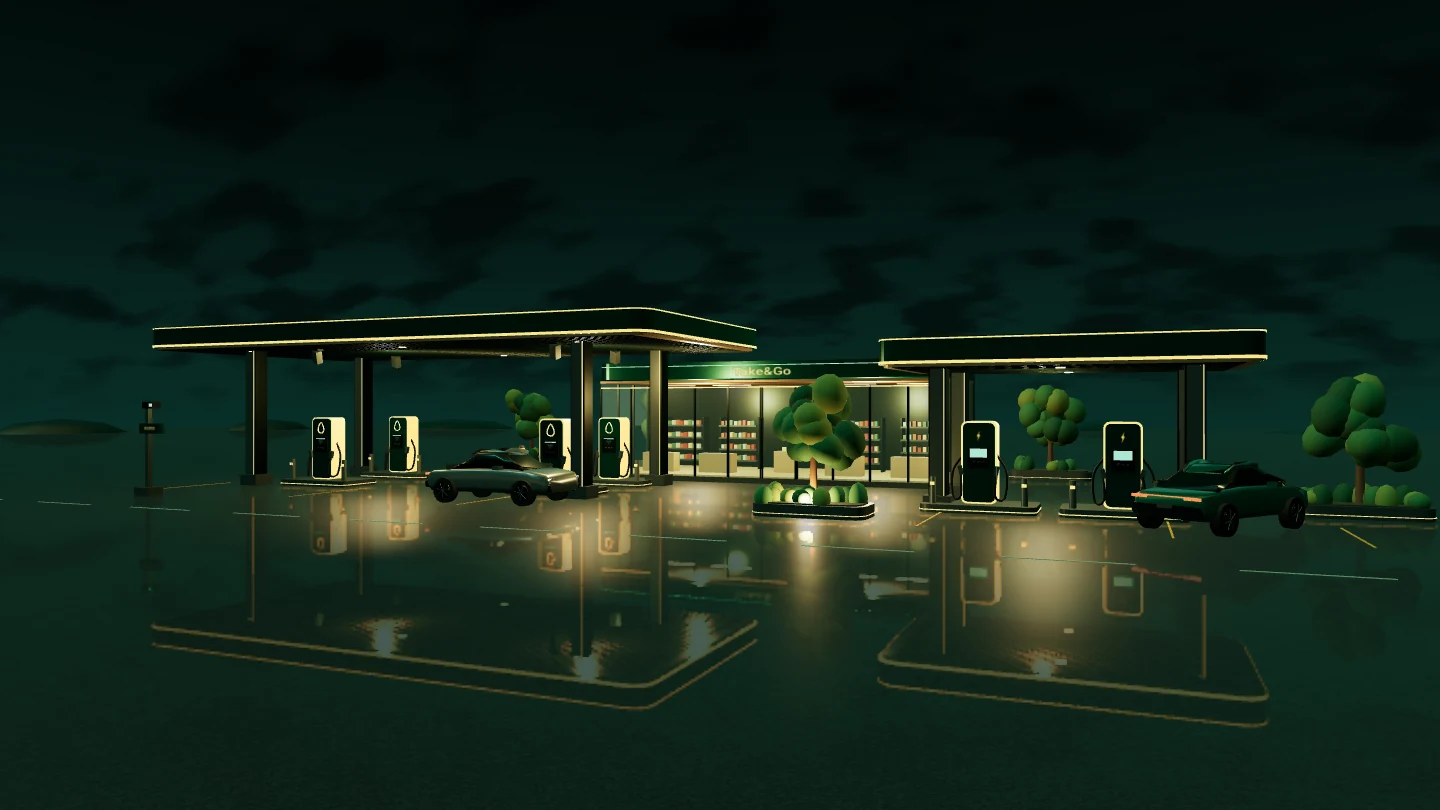
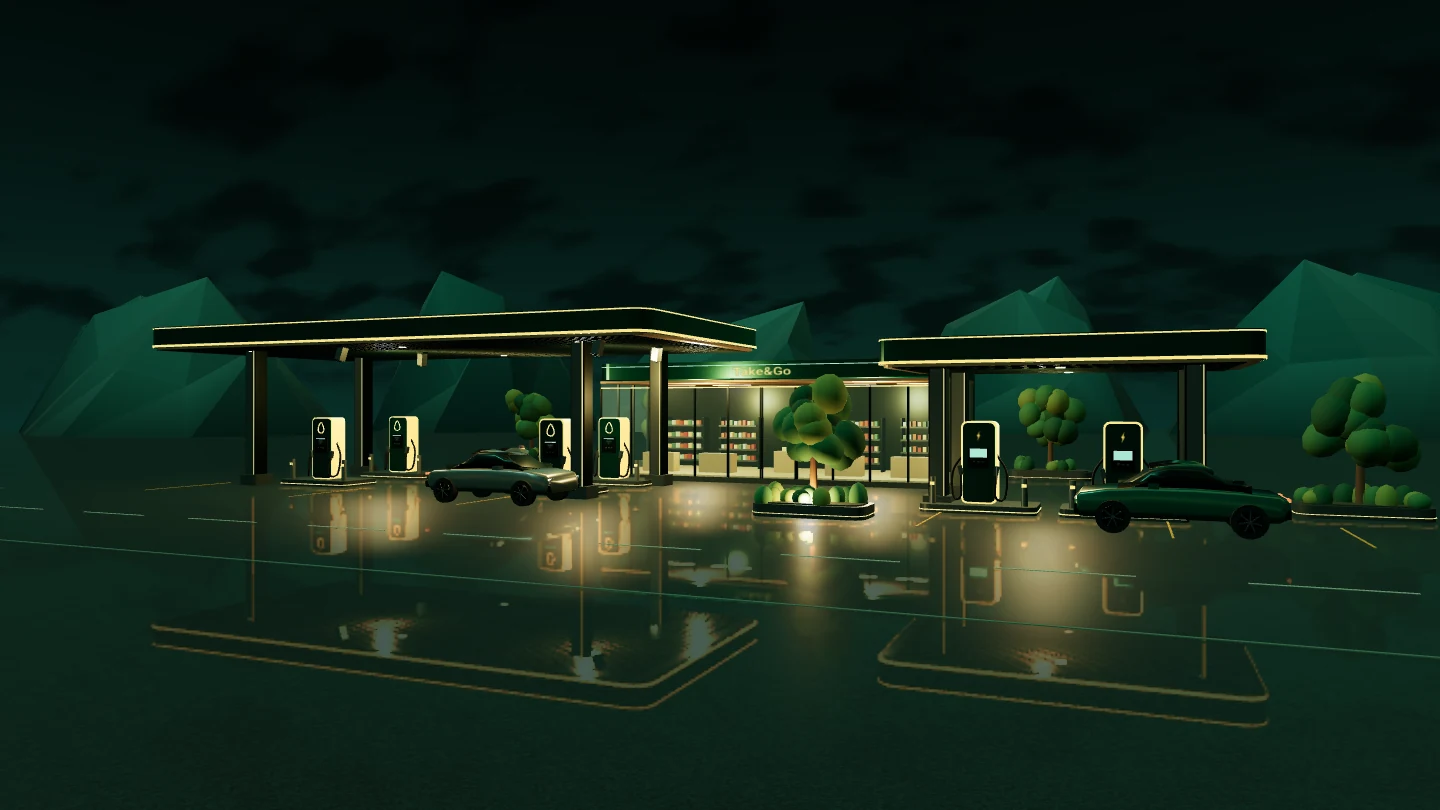
Animate EV charging and place identification on canopy camera

diff --git a/assets/scene/environment.js b/assets/scene/environment.js
@@ -40,7 +40,10 @@ export function environment(scene, high) {
 
   const lane = standard(0x889f85, .13, .74);
   const amber = standard(0xb8882e, .22, .54);
-  for (let i = -5; i <= 5; i++) box(scene, lane, i * 4.3, .02, 10.3, 2.5, .012, .065);
+  const shoulder = standard(0x536d5d, .16, .74);
+  for (let i = -23; i <= 23; i++) box(scene, lane, i * 4.3, .02, 11.75, 2.5, .012, .065);
+  box(scene, shoulder, 0, .021, 16.55, 212, .013, .07);
+  for (const x of [-68, 68]) box(scene, shoulder, x, .021, 7.35, 86, .013, .07);
   for (const x of [fuelX(-16), fuelX(-9), fuelX(-2), 9, 15, 19]) {
     box(scene, amber, x, .023, 4, .055, .014, 3.75);
   }
@@ -48,11 +51,58 @@ export function environment(scene, high) {
     const z = x === 5.8 ? 4.4 : x === 20 ? -1 : -12.8;
     planter(scene, x, z, high);
   }
-  for (let i = 0; i < 30; i++) {
-    const angle = i / 30 * Math.PI * 2;
-    const radius = 105 + random() * 10;
-    const rock = mesh(scene, new T.IcosahedronGeometry(1, 1), standard(0x0e302a), Math.cos(angle) * radius, -.9, Math.sin(angle) * radius);
-    rock.scale.set(4 + random() * 6, 1.1 + random() * 2.25, 6 + random() * 6);
+  mountainRanges(scene);
+}
+
+function mountainRanges(scene) {
+  const foot = new T.Color(0x0b2825);
+  const crest = new T.Color(0x386258);
+  const faces = new T.MeshStandardMaterial({
+    vertexColors: true,
+    roughness: 1,
+    emissive: 0x0c211e,
+    emissiveIntensity: .45,
+    side: T.DoubleSide,
+  });
+  const sides = 9;
+  for (const radius of [100, 126]) {
+    for (let i = 0; i < 18; i++) {
+      const angle = (i + .5) * Math.PI / 9;
+      // Keep both ends of the east–west access road open.
+      if (Math.abs(Math.sin(angle)) < .39) continue;
+      const x = Math.cos(angle) * radius;
+      const z = Math.sin(angle) * radius;
+      const width = 15 + random() * 10;
+      const peak = 9 + random() * 14;
+      const points = [], shoulders = [];
+      for (let j = 0; j < sides; j++) {
+        const a = j / sides * Math.PI * 2;
+        const radial = .78 + random() * .32;
+        const dx = Math.cos(a) * width * radial;
+        const dz = Math.sin(a) * width * radial;
+        points.push([x + dx, -1, z + dz]);
+        shoulders.push([x + dx * .54, peak * (.28 + random() * .54), z + dz * .54]);
+      }
+      const summit = [x + (random() - .5) * width * .58, peak, z + (random() - .5) * width * .58];
+      const slope = foot.clone().lerp(crest, .66);
+      const vertices = [], colors = [];
+      function facet(a, b, c, tones) {
+        vertices.push(...a, ...b, ...c);
+        const shade = .73 + random() * .27;
+        for (const color of tones) colors.push(color.r * shade, color.g * shade, color.b * shade);
+      }
+      for (let j = 0; j < sides; j++) {
+        const next = (j + 1) % sides;
+        facet(points[j], shoulders[j], points[next], [foot, slope, foot]);
+        facet(points[next], shoulders[j], shoulders[next], [foot, slope, slope]);
+        facet(shoulders[j], summit, shoulders[next], [slope, crest, slope]);
+      }
+      const geometry = new T.BufferGeometry();
+      geometry.setAttribute('position', new T.Float32BufferAttribute(vertices, 3));
+      geometry.setAttribute('color', new T.Float32BufferAttribute(colors, 3));
+      geometry.computeVertexNormals();
+      mesh(scene, geometry, faces).userData.ignorePick = true;
+    }
   }
 }
 

diff --git a/assets/scene/activity.js b/assets/scene/activity.js
@@ -1,7 +1,7 @@
 import * as T from './vendor/three.module.min.js';
 import { box, group, materials as m, mesh, standard, tube } from './model.js';
 import { vehicle } from './vehicles.js';
-import { fuelBays, fuelX } from './layout.js';
+import { chargingBay, fuelBays, fuelStopOffset, fuelX } from './layout.js';
 
 const path = points => new T.CatmullRomCurve3(points.map(([x, z, y = 0]) => new T.Vector3(x, y, z)));
 const clamp = T.MathUtils.clamp;
@@ -71,7 +71,7 @@ export function stationActivity(scene, market) {
 
   const pumpX = fuelX(fuelBays.right.x);
   const pumpZ = fuelBays.right.z;
-  const stopZ = pumpZ + 3.3;
+  const stopZ = pumpZ + fuelStopOffset;
   const fuelIn = path([[-40, 10.4], [-29, 10.4], [-22, 7.2], [-17, stopZ], [-10, stopZ], [pumpX, stopZ]]);
   const fuelOut = path([[pumpX, stopZ], [pumpX + 2.35, stopZ], [1, 7.5], [6, 10.4], [12, 10.4], [40, 10.4]]);
   const visitIn = path([[39, 14], [23, 14], [10, 13.6], [4.6, 10.8], [2.05, 7.2], [2.05, 1.2]]);
@@ -83,9 +83,28 @@ export function stationActivity(scene, market) {
     [pumpX - .66, .38, pumpZ + .54], [pumpX - .94, .31, pumpZ + 1.27],
     [pumpX - 1.38, .55, stopZ - 1.16], [pumpX - 1.52, .93, stopZ - .97]], .037);
 
+  const electric = vehicle(actors, 0, 0, 0x146853, true);
+  const chargeStopX = chargingBay.x + 1.25;
+  const chargeStopZ = chargingBay.z + 2.93;
+  const chargeIn = path([[43, 9.4], [29, 9.4], [23, 8.2], [19.8, 5.15], [17.5, chargeStopZ], [chargeStopX, chargeStopZ]]);
+  const chargeOut = path([[chargeStopX, chargeStopZ], [12.2, chargeStopZ], [8.1, 7.5],
+    [3, 9.2], [-10, 9.2], [-43, 9.2]]);
+  const chargeCable = tube(actors, m.rubber, [
+    [chargingBay.x + .48, 1.28, chargingBay.z + .17],
+    [chargingBay.x + .76, .32, chargingBay.z + .72],
+    [chargeStopX + .94, .29, chargeStopZ - 1.35],
+    [chargeStopX + 1.48, .96, chargeStopZ - .96],
+  ], .044);
+
   function update(elapsed) {
     const t = elapsed % 66;
     const f = (elapsed + 15) % 66;
+    const charge = (elapsed + 16) % 66;
+    if (charge < 12) drive(electric, chargeIn, ease(0, 12, charge));
+    else if (charge < 43) drive(electric, chargeIn, 1);
+    else drive(electric, chargeOut, ease(43, 55, charge));
+    electric.visible = charge < 55;
+    chargeCable.visible = charge >= 13 && charge < 42;
     if (f < 11) drive(fuel, fuelIn, ease(0, 11, f));
     else if (f < 25) drive(fuel, fuelIn, 1);
     else drive(fuel, fuelOut, ease(25, 39, f));

diff --git a/assets/scene/station.js b/assets/scene/station.js
@@ -1,11 +1,10 @@
 import * as T from './vendor/three.module.min.js';
 import { OrbitControls } from './vendor/OrbitControls.js';
-import { box, canopy, canopyCamera, dispenser, group, label, market, materials as m, tube } from './model.js';
+import { canopy, canopyCamera, dispenser, group, market } from './model.js';
 import { environment, lighting, sky, studioReflections } from './environment.js';
 import { stationActivity } from './activity.js';
-import { vehicle } from './vehicles.js';
 import { services } from './services.js';
-import { fuelBays, fuelOffsetX, fuelX } from './layout.js';
+import { chargingBay, fuelBays, fuelOffsetX, fuelX } from './layout.js';
 
 function buildStation(scene) {
   const forecourt = group(scene, fuelOffsetX, 0, 0);
@@ -14,27 +13,17 @@ function buildStation(scene) {
   const left = dispenser(forecourt, fuelBays.left.x, fuelBays.left.z);
   left.userData.zone = 1;
   const right = dispenser(forecourt, fuelBays.right.x, fuelBays.right.z);
+  const leftCamera = canopyCamera(forecourt, fuelBays.left.x, fuelBays.left.z);
+  leftCamera.userData.zone = 0;
+  canopyCamera(forecourt, fuelBays.right.x, fuelBays.right.z);
   for (const bay of Object.values(fuelBays)) {
-    canopyCamera(forecourt, bay.x, bay.z);
     dispenser(forecourt, bay.x, -3.05);
     canopyCamera(forecourt, bay.x, -3.05);
   }
   dispenser(scene, 10, 1.35, true);
-  const charge = dispenser(scene, 13.9, 1.38, true);
+  const charge = dispenser(scene, chargingBay.x, chargingBay.z, true);
   const shop = market(scene);
-  vehicle(scene, 16.2, 3.33, 0x146853, true);
-  tube(scene, m.rubber, [[14.39, 1.16, 1.79], [14.58, .39, 2.14],
-    [15.32, .26, 2.44], [15.87, .45, 2.75], [16.13, .94, 2.88]], .044);
-
-  const reader = group(scene, -17.2, 0, 7.4);
-  reader.userData.zone = 0;
-  box(reader, m.base, 0, .16, 0, .68, .32, .58);
-  box(reader, m.steel, 0, 1.65, 0, .14, 3.2, .15);
-  box(reader, m.frame, .18, 3.15, .03, .48, .23, .33);
-  box(reader, m.cyan, .36, 3.15, .205, .12, .11, .035);
-  box(reader, m.green, .19, 2.34, .035, 1.02, .35, .14);
-  label(reader, 'ACCESO', .19, 2.34, .118, .95, .25);
-  return { interactive: [reader, left, right, shop.shop, charge], updateActivity: stationActivity(scene, shop) };
+  return { interactive: [leftCamera, left, right, shop.shop, charge], updateActivity: stationActivity(scene, shop) };
 }
 
 export function mountStation(view, handlers, motion) {

diff --git a/assets/scene/services.js b/assets/scene/services.js
@@ -1,13 +1,15 @@
-import { fuelBays, fuelX } from './layout.js';
+import { fuelBays, fuelCameraOffset, fuelX } from './layout.js';
 
 export const services = [
   {
     name: 'Identificación inteligente',
-    description: 'Antes de salir, registra tu vehículo en la aplicación. Al llegar, Gas&Go propone vincular el vehículo con tu cuenta para evitar repetir la identificación en cada parada.',
+    description: 'Antes de salir, registra tu vehículo en la aplicación. Al llegar, una cámara de la marquesina enfoca la matrícula delantera para vincular el vehículo con tu cuenta. Así evitas repetir la identificación en cada parada.',
     benefit: 'Menos pasos antes de empezar a repostar.',
     detail: 'El mapa permite comparar estaciones por precio, distancia y tiempo estimado. La ocupación y la espera se simulan en el prototipo.',
-    anchor: [-17.2, 3.65, 7.4], target: [-17.2, 1.8, 7.4], angle: [4, 2.6, 8],
-    poster: [.1032, .4821],
+    anchor: [fuelX(fuelBays.left.x + fuelCameraOffset.x), fuelCameraOffset.y + .14, fuelBays.left.z + fuelCameraOffset.z + .35],
+    target: [fuelX(fuelBays.left.x + fuelCameraOffset.x), fuelCameraOffset.y - .12, fuelBays.left.z + fuelCameraOffset.z],
+    angle: [2.8, -1.8, 8.4],
+    poster: [.23207, .43139],
   },
   {
     name: 'Autorización y pago automático',

diff --git a/assets/scene/model.js b/assets/scene/model.js
@@ -1,3 +1,4 @@
+import { fuelCameraOffset, fuelStopOffset } from './layout.js';
 import * as T from './vendor/three.module.min.js';
 
 export const standard = (color, metalness = 0, roughness = .45) =>
@@ -142,12 +143,13 @@ export function dispenser(scene, x, z, electric = false) {
 }
 
 export function canopyCamera(parent, pumpX, pumpZ) {
-  const x = pumpX + .82;
-  const z = pumpZ + 1.42;
+  const x = pumpX + fuelCameraOffset.x;
+  const z = pumpZ + fuelCameraOffset.z;
   box(parent, materials.frame, x, 5.24, z, .31, .07, .3);
   box(parent, materials.steel, x, 5.08, z, .08, .26, .08);
-  const camera = group(parent, x, 4.98, z);
-  const direction = new T.Vector3(pumpX - x, 1.55 - camera.position.y, pumpZ - z).normalize();
+  const camera = group(parent, x, fuelCameraOffset.y, z);
+  const stoppedCarZ = pumpZ + (pumpZ < 0 ? 1.9 : fuelStopOffset);
+  const direction = new T.Vector3(pumpX + 2.3 - x, .86 - camera.position.y, stoppedCarZ - z).normalize();
   camera.quaternion.setFromUnitVectors(new T.Vector3(0, 0, 1), direction);
   box(camera, materials.steel, 0, 0, 0, .31, .24, .48);
   box(camera, materials.frame, 0, 0, .247, .27, .2, .035);

diff --git a/assets/scene/layout.js b/assets/scene/layout.js
@@ -6,3 +6,7 @@ export const fuelBays = {
   left: { x: -11.7, z: 1.28 },
   right: { x: -1.3, z: 1.15 },
 };
+
+export const fuelStopOffset = 3.3;
+export const chargingBay = { x: 13.9, z: 1.38 };
+export const fuelCameraOffset = { x: 3.18, y: 4.98, z: 2.65 };
